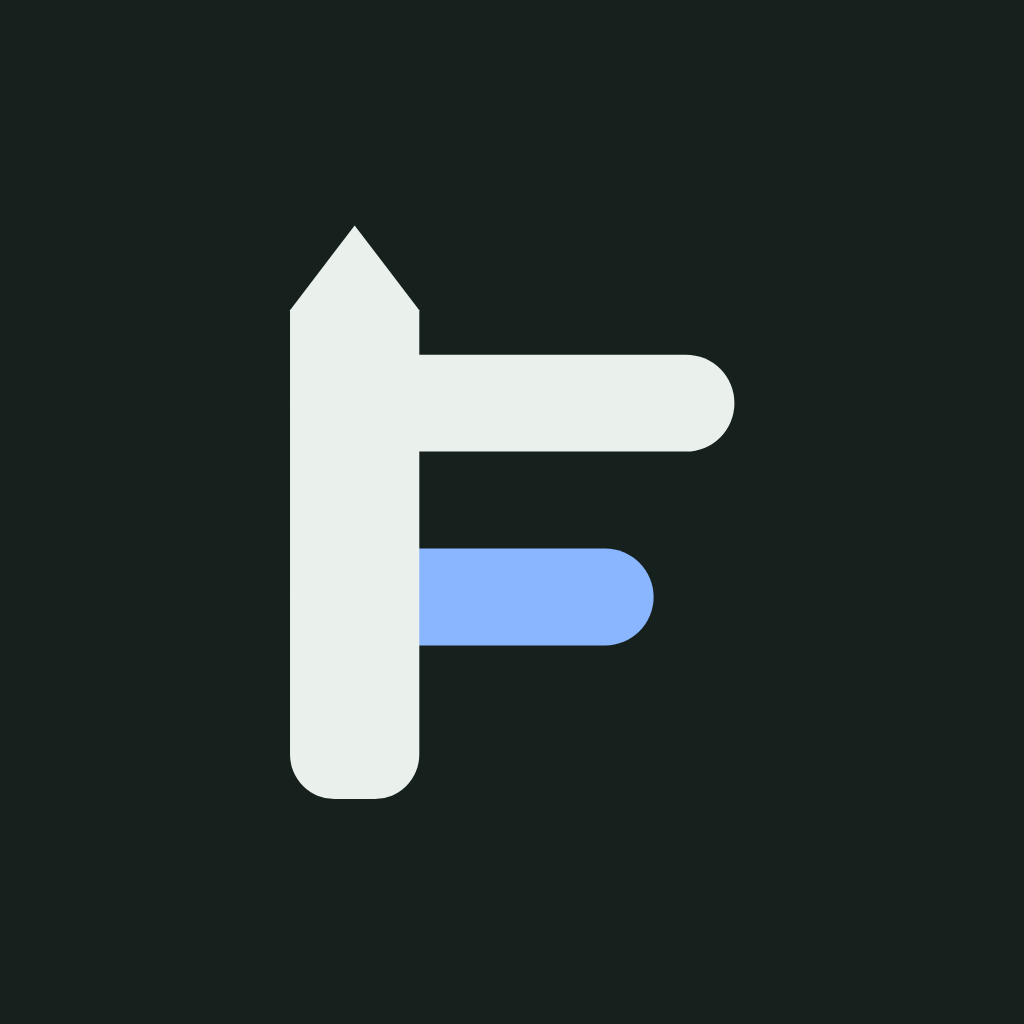
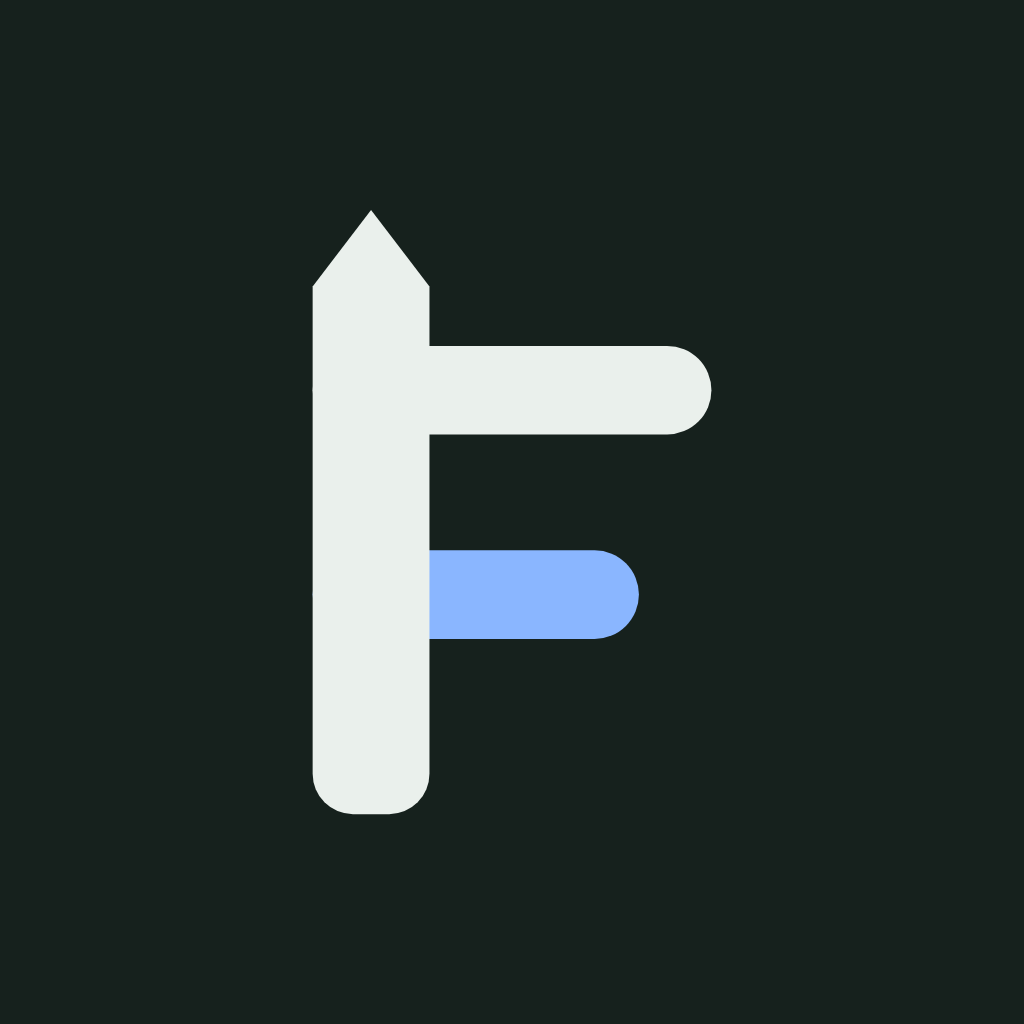
feat(brand): narrow the Picket F mark
Make the mark slightly taller and skinnier (candidate A from the
preview) and raise the render fractions so the extra height shows on
every raster, then re-render all brand assets.

diff --git a/src/theme/brand-mark.ts b/src/theme/brand-mark.ts
@@ -6,11 +6,11 @@ export const BRAND_MARK = {
   /** The drawing box the shapes are placed in. */
   size: 1024,
   /** The box the three shapes actually occupy, for centering and cropping. */
-  bounds: { x: 300, y: 228, width: 440, height: 568 },
+  bounds: { x: 322, y: 212, width: 396, height: 600 },
   /** The picket: a post with a pointed cap and a rounded foot, in ink. */
-  picket: 'M300 312 L364 228 L428 312 V752 a44 44 0 0 1 -44 44 H344 a44 44 0 0 1 -44 -44 Z',
+  picket: 'M322 288 L380 212 L438 288 V772 a40 40 0 0 1 -40 40 H362 a40 40 0 0 1 -40 -40 Z',
   /** The upper rail, in ink. */
-  topRail: { x: 300, y: 356, width: 440, height: 96, radius: 48 },
+  topRail: { x: 322, y: 347, width: 396, height: 88, radius: 44 },
   /** The lower rail, in the accent color. */
-  accentRail: { x: 300, y: 548, width: 360, height: 96, radius: 48 },
+  accentRail: { x: 322, y: 550, width: 324, height: 88, radius: 44 },
 } as const;

diff --git a/scripts/brand/targets.ts b/scripts/brand/targets.ts
@@ -21,12 +21,12 @@ const MONO: Inks = { ink: '#ffffff', accent: '#ffffff' };
 
 /**
  * Android masks the adaptive icon's center 66 dp of 108; a launcher may use a circle. The
- * mark's box is 440 by 568 units, so its corners sit 359 units from its center. Scaled so
+ * mark's box is 396 by 600 units, so its corners sit 359 units from its center. Scaled so
  * that circle is 60% of the layer, every corner stays inside the mask. The test checks this.
  */
-export const FOREGROUND_FRACTION = 0.47;
+export const FOREGROUND_FRACTION = 0.5;
 
-const SPLASH_FRACTION = 0.8;
+const SPLASH_FRACTION = 0.845;
 
 /** The app icon: the mark on the chalkboard, as both a raster and a vector. */
 const ICON_TILE = svgDocument(1024, tile(1024, darkColors.board, CHALK, 0));

diff --git a/scripts/brand/svg.ts b/scripts/brand/svg.ts
@@ -44,7 +44,7 @@ export function centeredMark(size: number, fraction: number, inks: Inks): string
 }
 
 /** How much of the tile the mark's box takes up; the rest is board. */
-export const TILE_FRACTION = 0.56;
+export const TILE_FRACTION = 0.59;
 
 /** A solid board with the mark on it: the app icon and the favicon. */
 export function tile(size: number, board: string, inks: Inks, cornerRadius: number): string {
